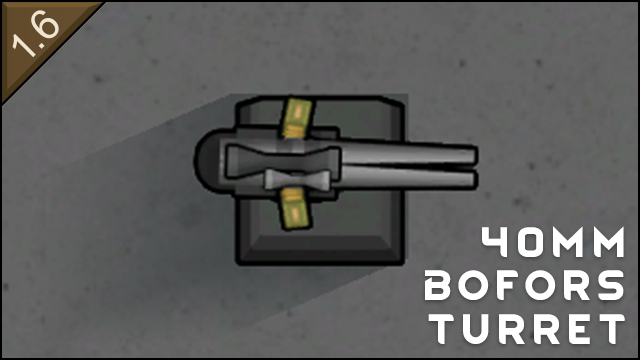
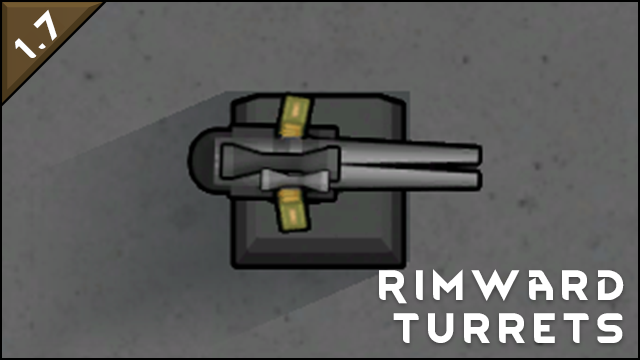
Rename to Rimward Turrets and add RimWorld 1.7 support
- Rename the mod to Rimward Turrets in About.xml, the readme and the license notes
- Add RimWorld 1.7 to the supported versions and load folders
- Move the 1.6 defs to a 1.6-1.7 folder shared by both versions
- Update the preview image with the new name
- Add the 1.6.0 changelog entry

diff --git a/README.md b/README.md
@@ -1,8 +1,8 @@
-# <p align=center style="text-align: center;"> 40mm Bofors </p>
+# <p align=center style="text-align: center;"> Rimward Turrets </p>
 
 <p align="center" style="text-align: center;">
-	<img alt="Version" src="https://img.shields.io/badge/Version-1.5.1-orange">
-	<img alt="Available for" src="https://img.shields.io/badge/Available_for-RimWorld_1.6-blue">
+	<img alt="Version" src="https://img.shields.io/badge/Version-1.6.0-orange">
+	<img alt="Available for" src="https://img.shields.io/badge/Available_for-RimWorld_1.6_%26_1.7-blue">
 	<img alt="License" src="https://img.shields.io/badge/License-GPL--3.0--or--later-red">
 </p>
 
@@ -17,7 +17,11 @@
 
 ## Description
 
-Adds the 40mm bofors turret, a fully automatic take on the uranium slug turret. It fires the same uranium slugs, but in fast two-shot bursts.
+Adds new turrets to your defenses. Formerly 40mm Bofors.
+
+### 40mm Bofors Turret
+
+A fully automatic take on the uranium slug turret. It fires the same uranium slugs, but in fast two-shot bursts.
 
 * **Research** - bofors turret, after the uranium slug turret. Needs a hi-tech research bench and a multi-analyzer.
 * **Building** - 2x2, uses 250 W, can break down and may explode when damaged.
@@ -37,15 +41,15 @@ Subscribe on the [Steam Workshop](https://steamcommunity.com/sharedfiles/filedet
 
 No dependencies. Works with any of these when they're installed:
 
-* [Combat Extended](https://steamcommunity.com/sharedfiles/filedetails/?id=2890901044) - fires Combat Extended's 40x311mmR rounds from a 40-round magazine, reaches 82 tiles, uses 650 W and doesn't explode when damaged.
-* Better Architect Menu - the turret goes in its weapons category.
+* [Combat Extended](https://steamcommunity.com/sharedfiles/filedetails/?id=2890901044) - the bofors fires Combat Extended's 40x311mmR rounds from a 40-round magazine, reaches 82 tiles, uses 650 W and doesn't explode when damaged.
+* Better Architect Menu - the turrets go in its weapons category.
 
 ## Licensing
 
-40mm Bofors is licensed under the **GNU General Public License v3.0 or later**. The full terms are in [LICENSE](./LICENSE). In short:
+Rimward Turrets is licensed under the **GNU General Public License v3.0 or later**. The full terms are in [LICENSE](./LICENSE). In short:
 
 * Use, share and change it freely.
-* Anything you release that's built from it must be GPL too, keep the copyright notices and credit, and not pass itself off as 40mm Bofors.
+* Anything you release that's built from it must be GPL too, keep the copyright notices and credit, and not pass itself off as Rimward Turrets.
 * You can follow GPL 3.0 or any later version of it.
 
 The turret textures are modified from RimWorld's own and are not covered by the GPL, and neither is the Combat Extended gun, which is adapted from Combat Extended and shared under its license. See [NOTICE](./NOTICE) for those, and for copyrights and trademarks.

diff --git a/CHANGELOG.md b/CHANGELOG.md
@@ -7,6 +7,17 @@ and this project adheres to [Semantic Versioning](https://semver.org/spec/v2.0.0
 
 ## [Unreleased]
 
+## [1.6.0] - 2026-10-14
+
+### Added
+
+- RimWorld 1.7 support
+
+### Changed
+
+- Renamed to Rimward Turrets, ready for more turrets
+- New preview image with the new name
+
 ## [1.5.1] - 2026-10-14
 
 ### Changed
@@ -47,7 +58,8 @@ and this project adheres to [Semantic Versioning](https://semver.org/spec/v2.0.0
 
 First release.
 
-[Unreleased]: https://github.com/aspctt/rimward-turrets/compare/1.5.1...HEAD
+[Unreleased]: https://github.com/aspctt/rimward-turrets/compare/1.6.0...HEAD
+[1.6.0]: https://github.com/aspctt/rimward-turrets/compare/1.5.1...1.6.0
 [1.5.1]: https://github.com/aspctt/rimward-turrets/releases/tag/1.5.1
 [1.5.0]: https://steamcommunity.com/sharedfiles/filedetails/changelog/3650133609
 [1.4.0]: https://steamcommunity.com/sharedfiles/filedetails/changelog/3650133609
